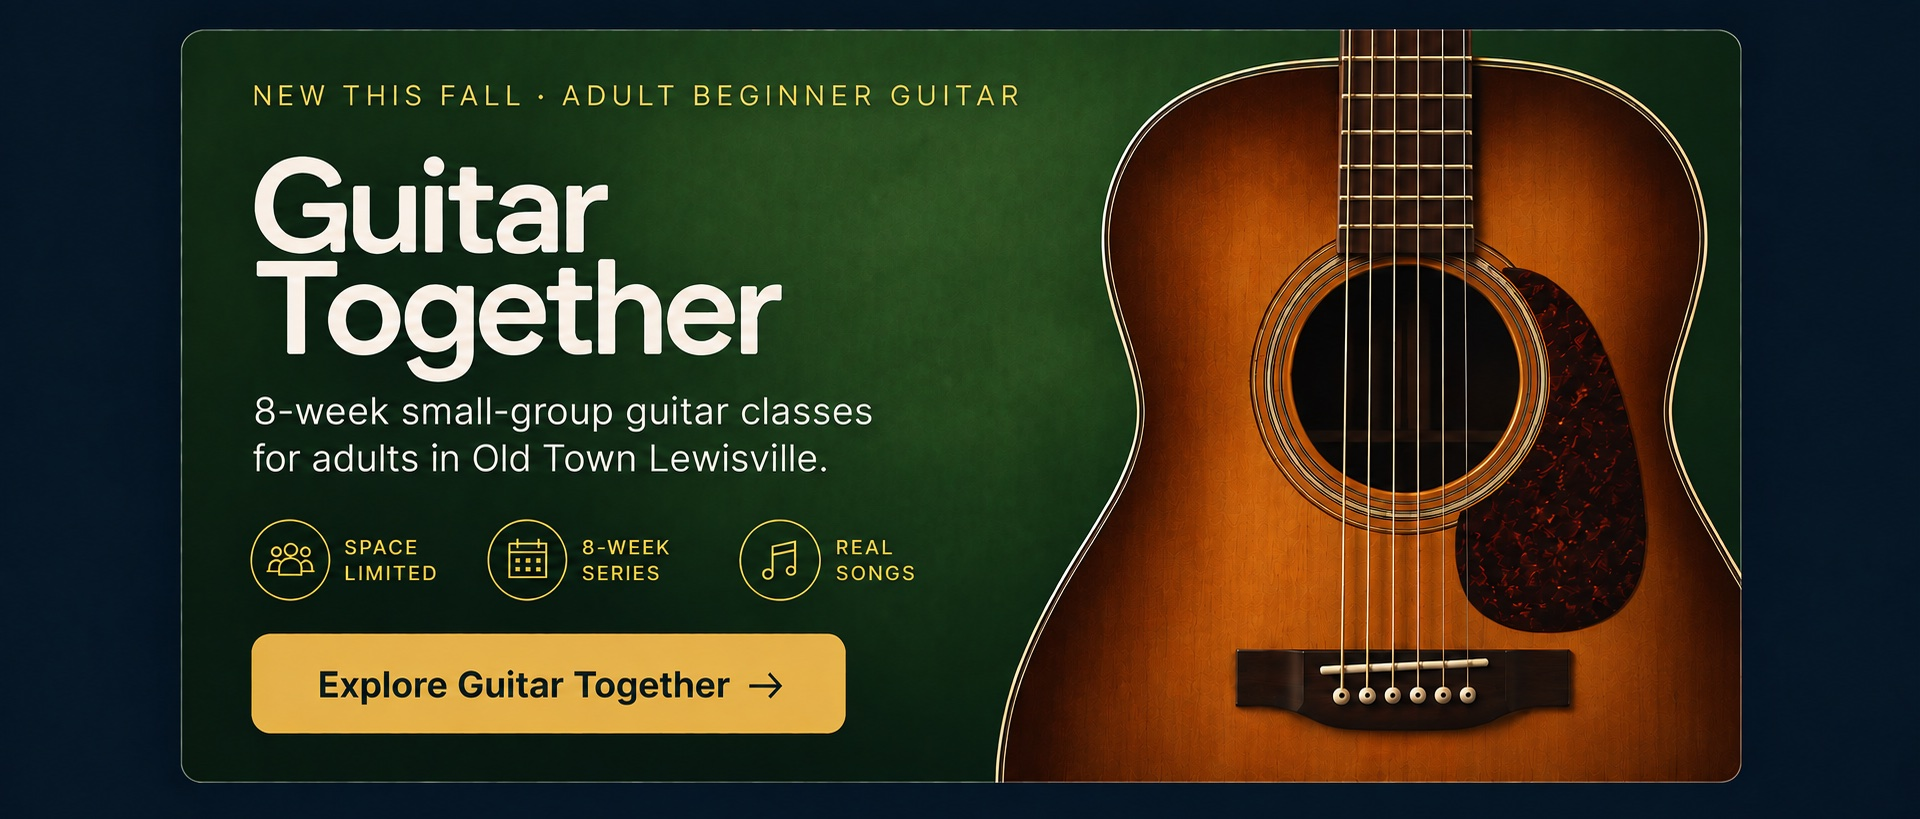
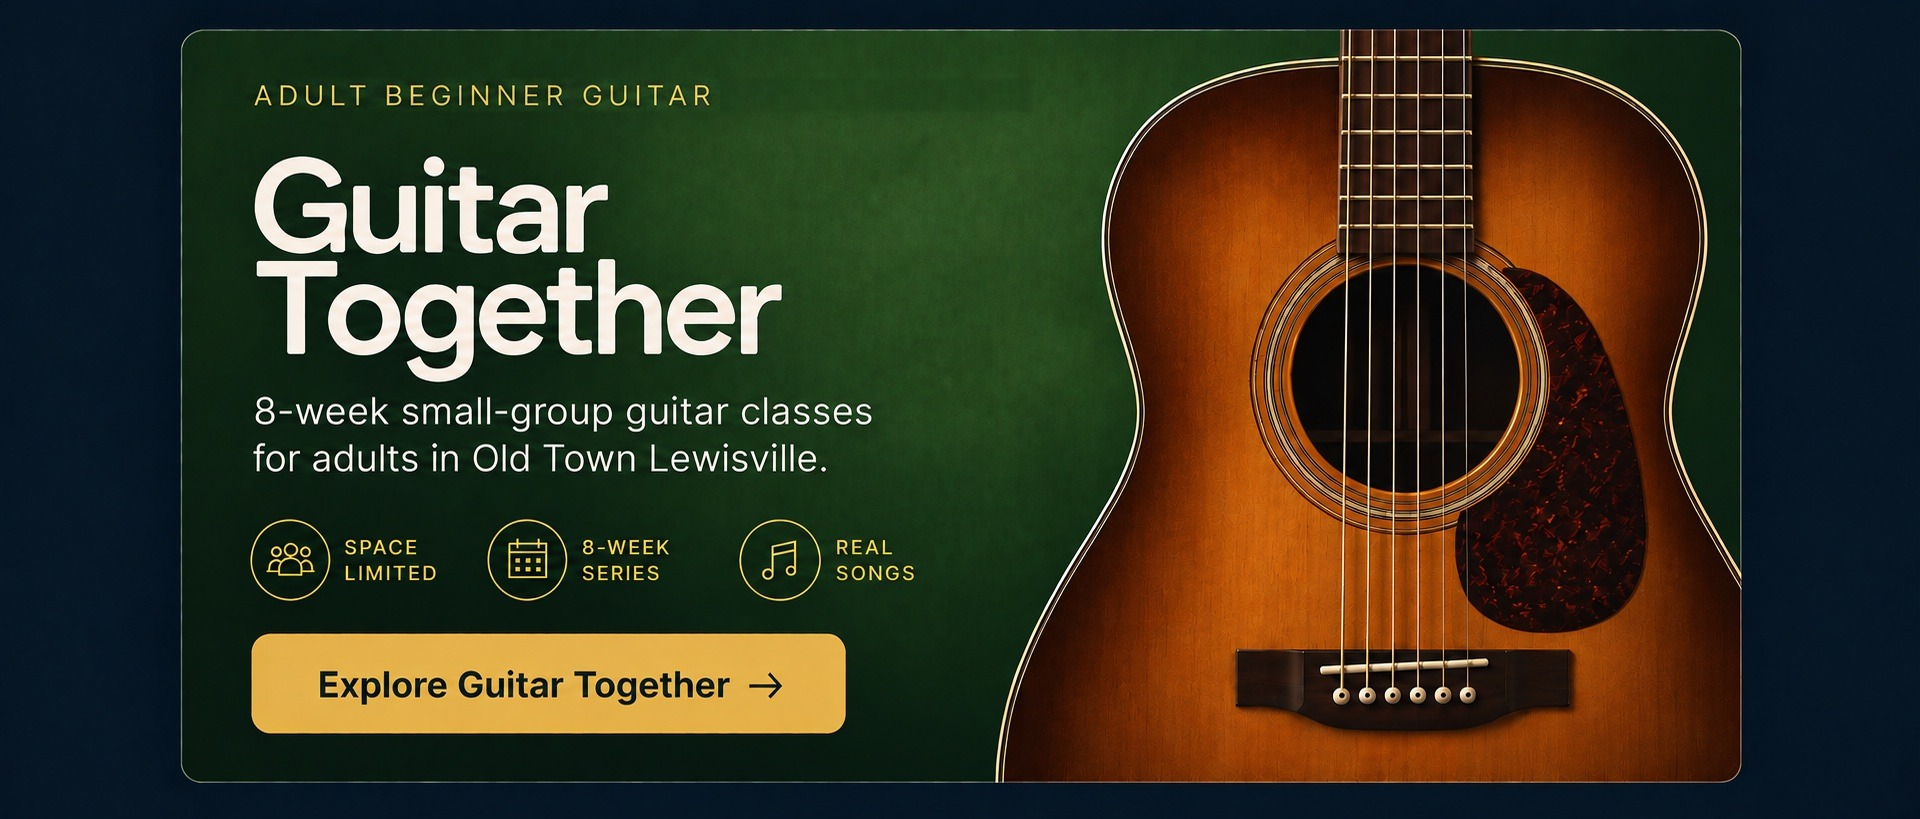
Close Guitar Together registration until next session; drop "New this fall" from homepage card
Class section and the buttons that scroll to it are hidden behind
REGISTRATION_OPEN = false until new dates and Stripe links are ready.

Changed region(s): [[0.125, 0.0916, 0.5312, 0.1526]]

diff --git a/src/pages/GuitarTogether.tsx b/src/pages/GuitarTogether.tsx
@@ -13,6 +13,11 @@ import { trackEvent } from '../analytics';
 const TUESDAY_STRIPE_URL = 'https://buy.stripe.com/6oU9AU8BQ5dF9Qy3TR6kg01';
 const SATURDAY_STRIPE_URL = 'https://buy.stripe.com/14AfZi8BQ49B7Iq1LJ6kg02';
 
+// Registration is closed between sessions: false hides the "Choose your class"
+// section and every button that scrolls to it. To reopen, update the cohort
+// dates and Stripe links below, then set this back to true.
+const REGISTRATION_OPEN = false;
+
 const PAGE_TITLE = 'Beginner Adult Guitar Class in Lewisville, TX | Guitar Together';
 const PAGE_DESCRIPTION =
   'Join Guitar Together, an 8-week small-group beginner guitar experience for adults at Legacy Music Studio in Old Town Lewisville. No experience necessary.';
@@ -204,9 +209,11 @@ export default function GuitarTogether() {
             Just 10 adults learning guitar&nbsp;together.
           </p>
 
-          <button data-testid="button-hero-choose-class" onClick={goToClasses} className={`${goldButton} mt-8 w-full sm:w-auto`}>
-            Find your class <span aria-hidden="true" className="ml-2">&rarr;</span>
-          </button>
+          {REGISTRATION_OPEN && (
+            <button data-testid="button-hero-choose-class" onClick={goToClasses} className={`${goldButton} mt-8 w-full sm:w-auto`}>
+              Find your class <span aria-hidden="true" className="ml-2">&rarr;</span>
+            </button>
+          )}
 
           <p className="mt-5 text-xs sm:text-sm font-light tracking-wide text-gray-400 text-balance">
             8 weeks &middot; $279 &middot; Bring your own guitar
@@ -268,65 +275,67 @@ export default function GuitarTogether() {
       </section>
 
       {/* ── Choose your class (primary conversion) ───────────────────────── */}
-      <section id="choose-your-class" className="scroll-mt-20 px-6 py-20 md:py-24">
-        <div className="max-w-5xl mx-auto">
-          <h2 className="text-3xl md:text-4xl font-light text-white mb-3">Choose your class</h2>
-          <p className="text-base font-light text-gray-400 mb-10">
-            Two cohorts, same program. Pick the day that fits your week.
-          </p>
+      {REGISTRATION_OPEN && (
+        <section id="choose-your-class" className="scroll-mt-20 px-6 py-20 md:py-24">
+          <div className="max-w-5xl mx-auto">
+            <h2 className="text-3xl md:text-4xl font-light text-white mb-3">Choose your class</h2>
+            <p className="text-base font-light text-gray-400 mb-10">
+              Two cohorts, same program. Pick the day that fits your week.
+            </p>
 
-          <div className="grid grid-cols-1 lg:grid-cols-2 gap-6">
-            {cohorts.map((cohort) => (
-              <div
-                key={cohort.id}
-                className="flex flex-col rounded-2xl border border-white/10 bg-[#1A2E42]/40 p-6 sm:p-8"
-              >
-                <h3 className="text-2xl font-light text-white">{cohort.day}</h3>
-                <p className="mt-3 text-sm font-light leading-relaxed text-gray-400">{cohort.audience}</p>
-
-                <dl className="mt-6 space-y-3 text-sm font-light text-gray-200">
-                  <div>
-                    <dt className="sr-only">Meets</dt>
-                    <dd className="text-base text-white">{cohort.time}</dd>
-                  </div>
-                  <div>
-                    <dt className="sr-only">Dates</dt>
-                    <dd>
-                      {cohort.dates}
-                      <span className="block text-gray-500">{cohort.skipped}</span>
-                    </dd>
-                  </div>
-                  <div>
-                    <dt className="sr-only">Location</dt>
-                    <dd>
-                      Legacy Music Studio
-                      <span className="block text-gray-500">Old Town Lewisville, Texas</span>
-                    </dd>
-                  </div>
-                  <div>
-                    <dt className="sr-only">Format</dt>
-                    <dd className="text-gray-500">8 sessions · Maximum 10 participants</dd>
-                  </div>
-                </dl>
-
-                <div className="mt-8 flex items-baseline gap-3">
-                  <span className="text-4xl sm:text-5xl font-light text-[#C9A84C]">$279</span>
-                  <span className="text-sm font-light text-gray-400">for the complete 8-week program</span>
-                </div>
-
-                <a
-                  href={registrationUrl(cohort.stripeUrl, source)}
-                  data-testid={cohort.testId}
-                  onClick={() => trackEvent('register_click', { cohort: cohort.id, source: source ?? '(none)' })}
-                  className={`${goldButton} mt-8 w-full text-base py-4`}
+            <div className="grid grid-cols-1 lg:grid-cols-2 gap-6">
+              {cohorts.map((cohort) => (
+                <div
+                  key={cohort.id}
+                  className="flex flex-col rounded-2xl border border-white/10 bg-[#1A2E42]/40 p-6 sm:p-8"
                 >
-                  {cohort.cta}
-                </a>
-              </div>
-            ))}
+                  <h3 className="text-2xl font-light text-white">{cohort.day}</h3>
+                  <p className="mt-3 text-sm font-light leading-relaxed text-gray-400">{cohort.audience}</p>
+
+                  <dl className="mt-6 space-y-3 text-sm font-light text-gray-200">
+                    <div>
+                      <dt className="sr-only">Meets</dt>
+                      <dd className="text-base text-white">{cohort.time}</dd>
+                    </div>
+                    <div>
+                      <dt className="sr-only">Dates</dt>
+                      <dd>
+                        {cohort.dates}
+                        <span className="block text-gray-500">{cohort.skipped}</span>
+                      </dd>
+                    </div>
+                    <div>
+                      <dt className="sr-only">Location</dt>
+                      <dd>
+                        Legacy Music Studio
+                        <span className="block text-gray-500">Old Town Lewisville, Texas</span>
+                      </dd>
+                    </div>
+                    <div>
+                      <dt className="sr-only">Format</dt>
+                      <dd className="text-gray-500">8 sessions · Maximum 10 participants</dd>
+                    </div>
+                  </dl>
+
+                  <div className="mt-8 flex items-baseline gap-3">
+                    <span className="text-4xl sm:text-5xl font-light text-[#C9A84C]">$279</span>
+                    <span className="text-sm font-light text-gray-400">for the complete 8-week program</span>
+                  </div>
+
+                  <a
+                    href={registrationUrl(cohort.stripeUrl, source)}
+                    data-testid={cohort.testId}
+                    onClick={() => trackEvent('register_click', { cohort: cohort.id, source: source ?? '(none)' })}
+                    className={`${goldButton} mt-8 w-full text-base py-4`}
+                  >
+                    {cohort.cta}
+                  </a>
+                </div>
+              ))}
+            </div>
           </div>
-        </div>
-      </section>
+        </section>
+      )}
 
       {/* ── What you need ────────────────────────────────────────────────── */}
       <section className="px-6 py-20 md:py-24 bg-[#0b1220]">
@@ -404,17 +413,19 @@ export default function GuitarTogether() {
       <section className="px-6 py-24 border-t border-white/10">
         <div className="max-w-3xl mx-auto text-center">
           <h2 className="text-3xl md:text-5xl font-light leading-tight text-white mb-5">Stop waiting for someday.</h2>
-          <p className="text-base md:text-lg font-light text-gray-400 text-balance mb-10">
+          <p className={`text-base md:text-lg font-light text-gray-400 text-balance ${REGISTRATION_OPEN ? 'mb-10' : ''}`}>
             Eight weeks. Ten people. One guitar you&rsquo;ve been meaning to learn.
           </p>
-          <button
-            data-testid="button-final-choose-class"
-            onClick={goToClasses}
-            className={`${goldButton} w-full sm:w-auto text-base py-4`}
-            style={{ borderColor: GOLD }}
-          >
-            Choose your class
-          </button>
+          {REGISTRATION_OPEN && (
+            <button
+              data-testid="button-final-choose-class"
+              onClick={goToClasses}
+              className={`${goldButton} w-full sm:w-auto text-base py-4`}
+              style={{ borderColor: GOLD }}
+            >
+              Choose your class
+            </button>
+          )}
         </div>
       </section>
     </main>
